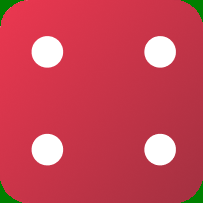
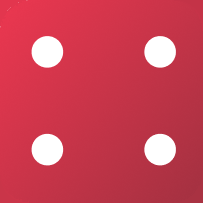
dice highlighting on click

diff --git a/src/components/game/table/board/DiceContainer.js b/src/components/game/table/board/DiceContainer.js
@@ -1,0 +1,65 @@
+import { connect } from 'react-redux'
+import React, { Component } from 'react';
+
+
+const dicearr = [
+  '/1.png',
+  '/2.png',
+  '/3.png',
+  '/4.png',
+  '/5.png',
+  '/6.png',
+]
+
+class DiceContainer extends Component{
+  constructor(props) {
+      super(props);
+      this.state = {
+       oneSelected: false,
+       twoSelected: false,
+       threeSelected: false,
+       fourSelected: false,
+       fiveSelected: false,
+       sixSelected: false
+      }
+    }
+    
+    handleOnClick(number){
+      let x = number
+      console.log(x)
+      if (x === 1) this.setState({...this.state, oneSelected: !this.state.oneSelected})
+      else if (x === 2) this.setState({...this.state, twoSelected: !this.state.twoSelected})
+      else if (x === 3) this.setState({...this.state, threeSelected: !this.state.threeSelected})
+      else if (x === 4) this.setState({...this.state, fourSelected: !this.state.fourSelected})
+      else if (x === 5) this.setState({...this.state, fiveSelected: !this.state.fiveSelected})
+      else this.setState({...this.state, sixSelected: !this.state.sixSelected})
+      }
+  
+    
+  render() {
+    const dice = []
+    for (let i = 1; i <= this.state.rollable_dice; i++) {
+      let defaults = ['Die 1', 'Die 2', 'Die 3', 'Die 4', 'Die 5', 'Die 6' ]
+      dice.push(
+        <div>
+        <img className={this.state.oneSelected ? "dice_background_active" : "dice_background"} onClick={this.handleOnClick.bind(this, 1)} src={process.env.PUBLIC_URL + dicearr[this.props.settings.settings.rolled_dice[0]-1]} />
+        <br></br><br></br>
+        </div>  
+      )
+    }
+  return (
+    <div class="diceContainer">
+    <img className={this.state.oneSelected ? "dice_background_active" : "dice_background"} onClick={this.handleOnClick.bind(this, 1)} src={process.env.PUBLIC_URL + dicearr[this.props.settings.settings.rolled_dice[0]-1]} />
+    <img className={this.state.twoSelected ? "dice_background_active" : "dice_background"} onClick={this.handleOnClick.bind(this, 2)} src={process.env.PUBLIC_URL + dicearr[this.props.settings.settings.rolled_dice[1]-1]} />
+    <img className={this.state.threeSelected ? "dice_background_active" : "dice_background"} onClick={this.handleOnClick.bind(this, 3)} src={process.env.PUBLIC_URL + dicearr[this.props.settings.settings.rolled_dice[2]-1]} />
+    <img className={this.state.fourSelected ? "dice_background_active" : "dice_background"} onClick={this.handleOnClick.bind(this, 4)} src={process.env.PUBLIC_URL + dicearr[this.props.settings.settings.rolled_dice[3]-1]} />
+    <img className={this.state.fiveSelected ? "dice_background_active" : "dice_background"} onClick={this.handleOnClick.bind(this, 5)} src={process.env.PUBLIC_URL + dicearr[this.props.settings.settings.rolled_dice[4]-1]} />
+    <img className={this.state.sixSelected ? "dice_background_active" : "dice_background"} onClick={this.handleOnClick.bind(this, 6)} src={process.env.PUBLIC_URL + dicearr[this.props.settings.settings.rolled_dice[5]-1]} />
+  </div>
+
+  )
+}
+}
+
+export default connect() (DiceContainer)
+

diff --git a/src/components/game/table/board/ButtonsContainer.js b/src/components/game/table/board/ButtonsContainer.js
@@ -1,12 +1,16 @@
 import React, { Component } from 'react';
 import { connect } from 'react-redux'
 
-class GameButtons extends Component {
+
+class ButtonsContainer extends Component {
     constructor(props) {
         super(props);
     };    
 
 render(){
+    console.log(this.props.settings.firstRollThrown)
+    const firstRollThrown = this.props.settings.firstRollThrown
+    if (firstRollThrown === true) {
     return (
         <div>
             <button onClick={this.props.settings.settings.roll} className="game_buttons" >Roll Dice</button>
@@ -15,6 +19,9 @@ render(){
         </div>
         )
     }
+    else { return (
+        <button onClick={this.props.settings.settings.roll} className="game_buttons" >Roll Dice</button>
+    )}}
 }
 
-export default connect()(GameButtons)
+export default connect()(ButtonsContainer)

diff --git a/src/reducers/manageGame.js b/src/reducers/manageGame.js
@@ -16,7 +16,8 @@ export default function manageGame(state = {
     p3:"Player 3",
     p4:"Player 4",
     num_of_players: 2,
-    isSubmitted: false
+    isSubmitted: false,
+    firstRollThrown: false,
 
     }, action) {
 
@@ -38,7 +39,8 @@ export default function manageGame(state = {
         console.log(state)
           return {
             ...state,
-            rolled_dice: Array.from({length: state.rollable_dice}, () => Math.floor(Math.random() * 6) + 1)
+            rolled_dice: Array.from({length: state.rollable_dice}, () => Math.floor(Math.random() * 6) + 1),
+            firstRollThrown: true
             };
             
            

diff --git a/src/index.css b/src/index.css
@@ -39,6 +39,8 @@ code {
 
 }
 
+
+
 .footer {
   height: 15px;
   position: fixed;
@@ -381,9 +383,21 @@ table, th, td {
 }
     
 .diceContainer {
-  margin-block-start: 100 ;
-  display: 'flex';
-  flex-direction: 'row';
-  justify-content: 'center';
+  display: flex;
+  justify-content:center;
+  padding:3vw;
+  margin-right: 4%;
 }
 
+.diceContainer img {
+  height: 70px;
+  width: 70px;
+  padding: 15px 0 0 15px;
+  margin-right: .5px;
+  filter: drop-shadow(0 0 3px);
+}
+
+.dice_background_active {
+ 
+  background: linear-gradient(#5F8EC9,#2255BE) 0 0 / 80px 80px no-repeat;
+}

diff --git a/src/components/game/table/board/RollBoard.js b/src/components/game/table/board/RollBoard.js
@@ -1,4 +1,4 @@
-import Dice from '../DiceContainer'
+import Dice from './DiceContainer'
 import Title from './RollBoardTitle'
 import React, { Component } from 'react';
 import { connect } from 'react-redux'
@@ -13,7 +13,7 @@ render (){
         <div className="rolling_board">
         <Title/>
         <div className="line"></div>
-        <div className="dice_container">
+        <div className>
             <Dice settings={this.props}/>
         </div>
     </div>)

diff --git a/src/components/game/Game.js b/src/components/game/Game.js
@@ -50,6 +50,7 @@ constructor(props) {
         rolled_dice: state.rolled_dice,
         kept_dice: state.kept_dice,
         selected_value: state.selected_value,
+        firstRollThrown: state.firstRollThrown
     })
 
 

diff --git a/src/components/game/table/board/PlayerKeep.js b/src/components/game/table/board/PlayerKeep.js
@@ -1,5 +1,5 @@
 import React from 'react'
-import Dice from '../DiceContainer'
+import Dice from './DiceContainer'
 import Title from './KeepTitle'
 import Value from './ValueTitle'
 function PlayerKeep() {
